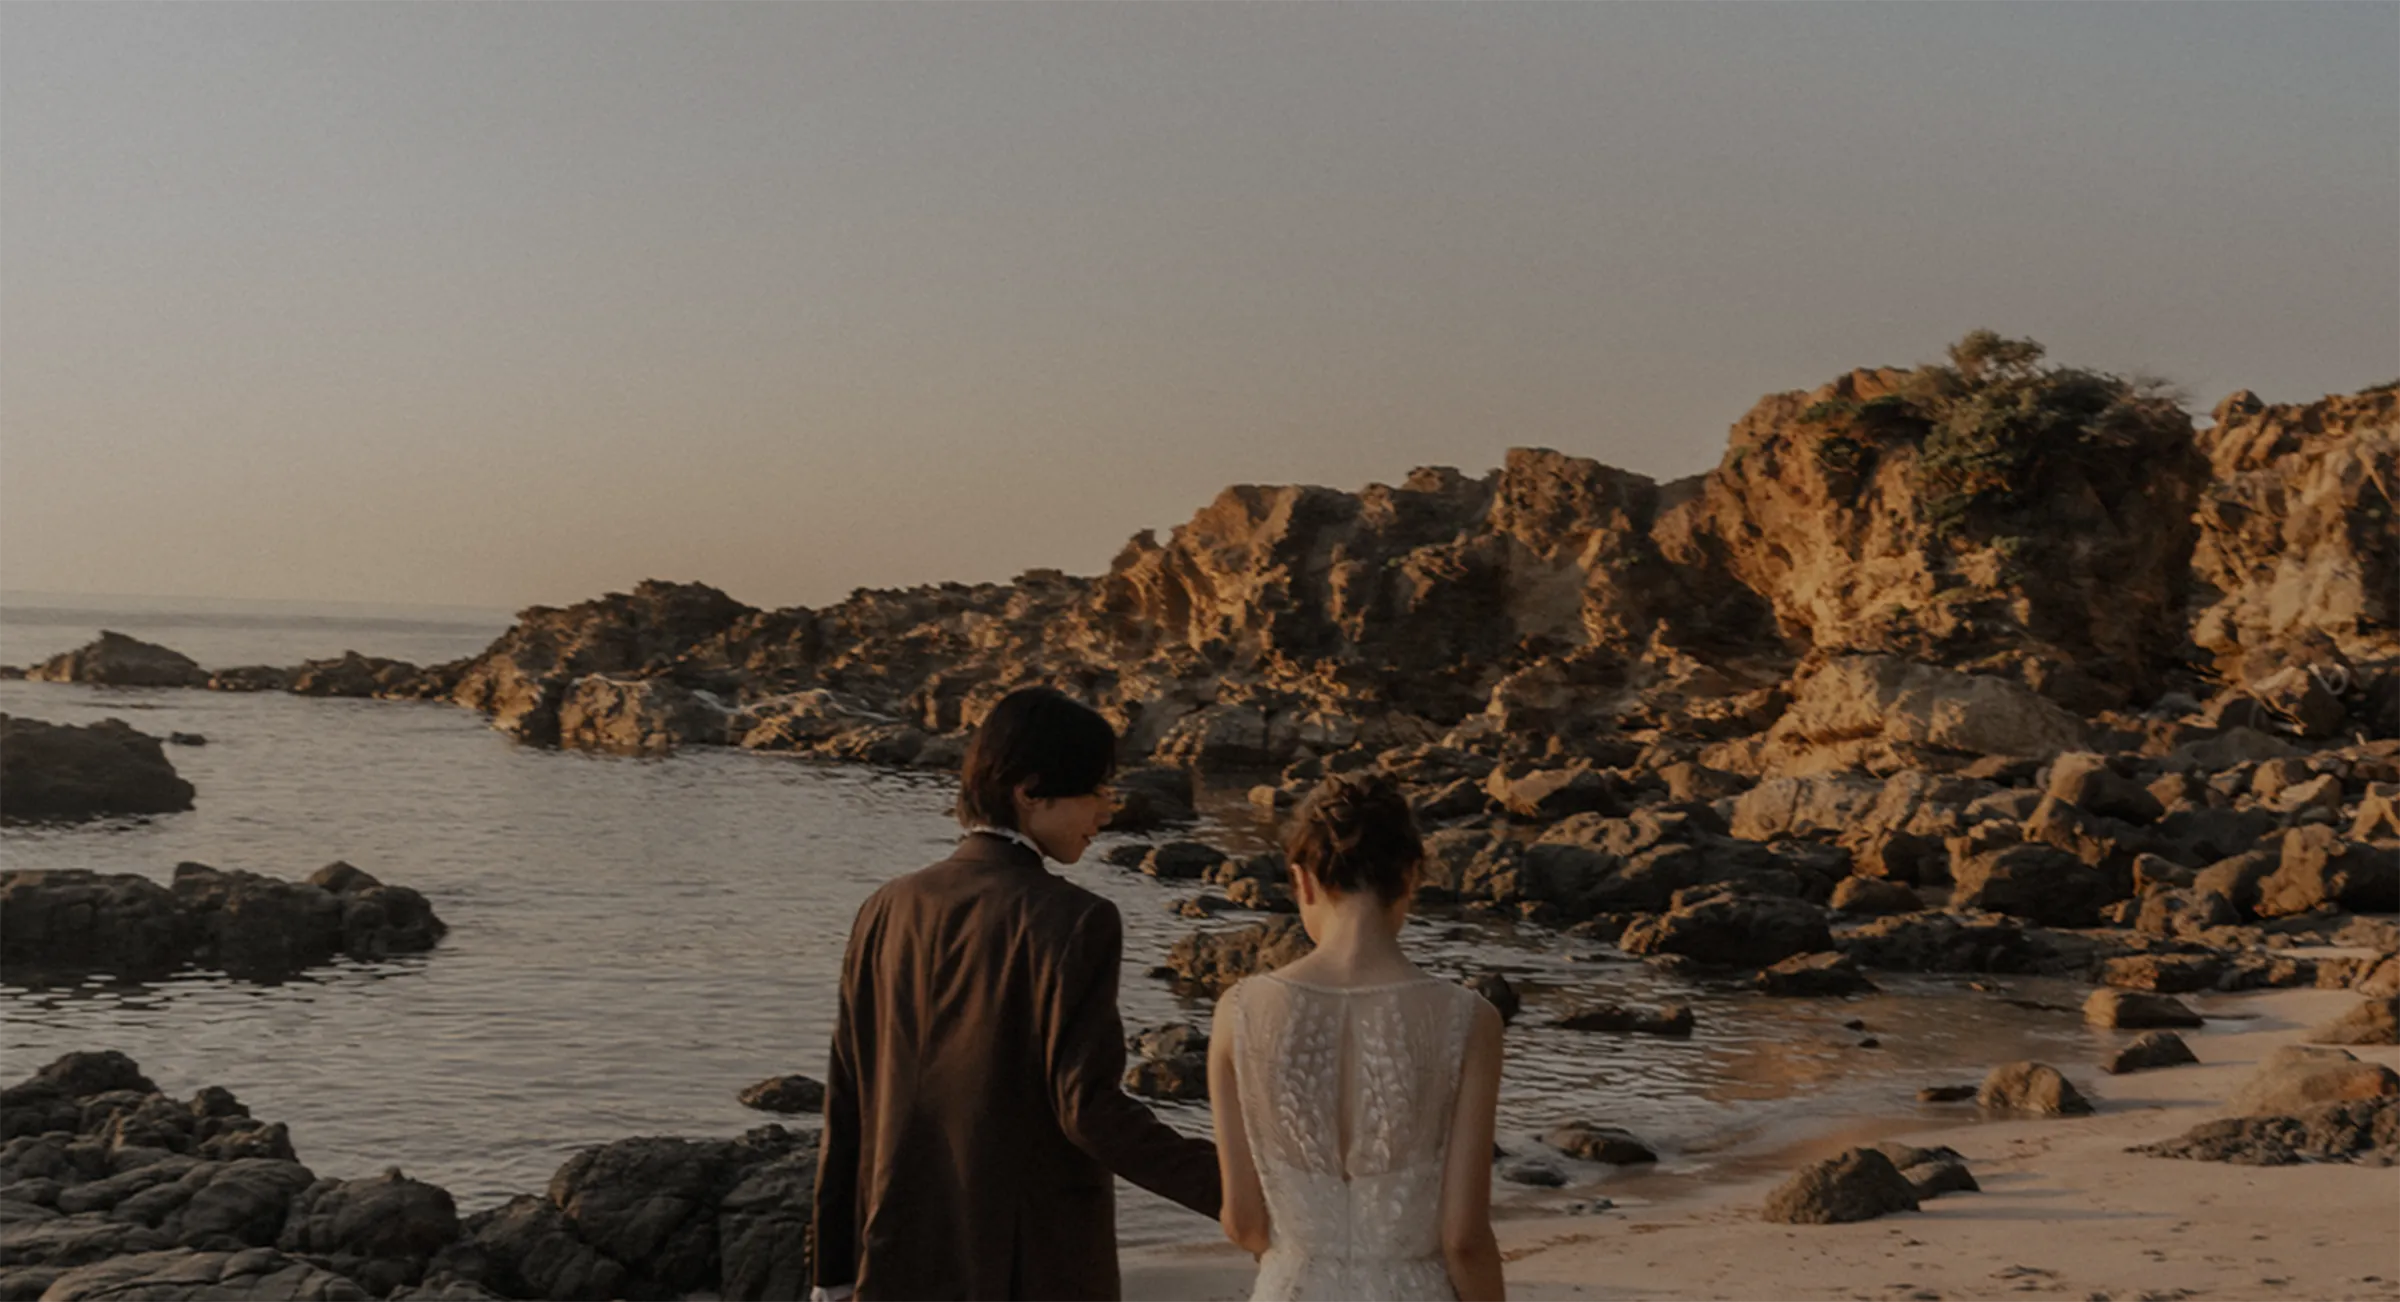
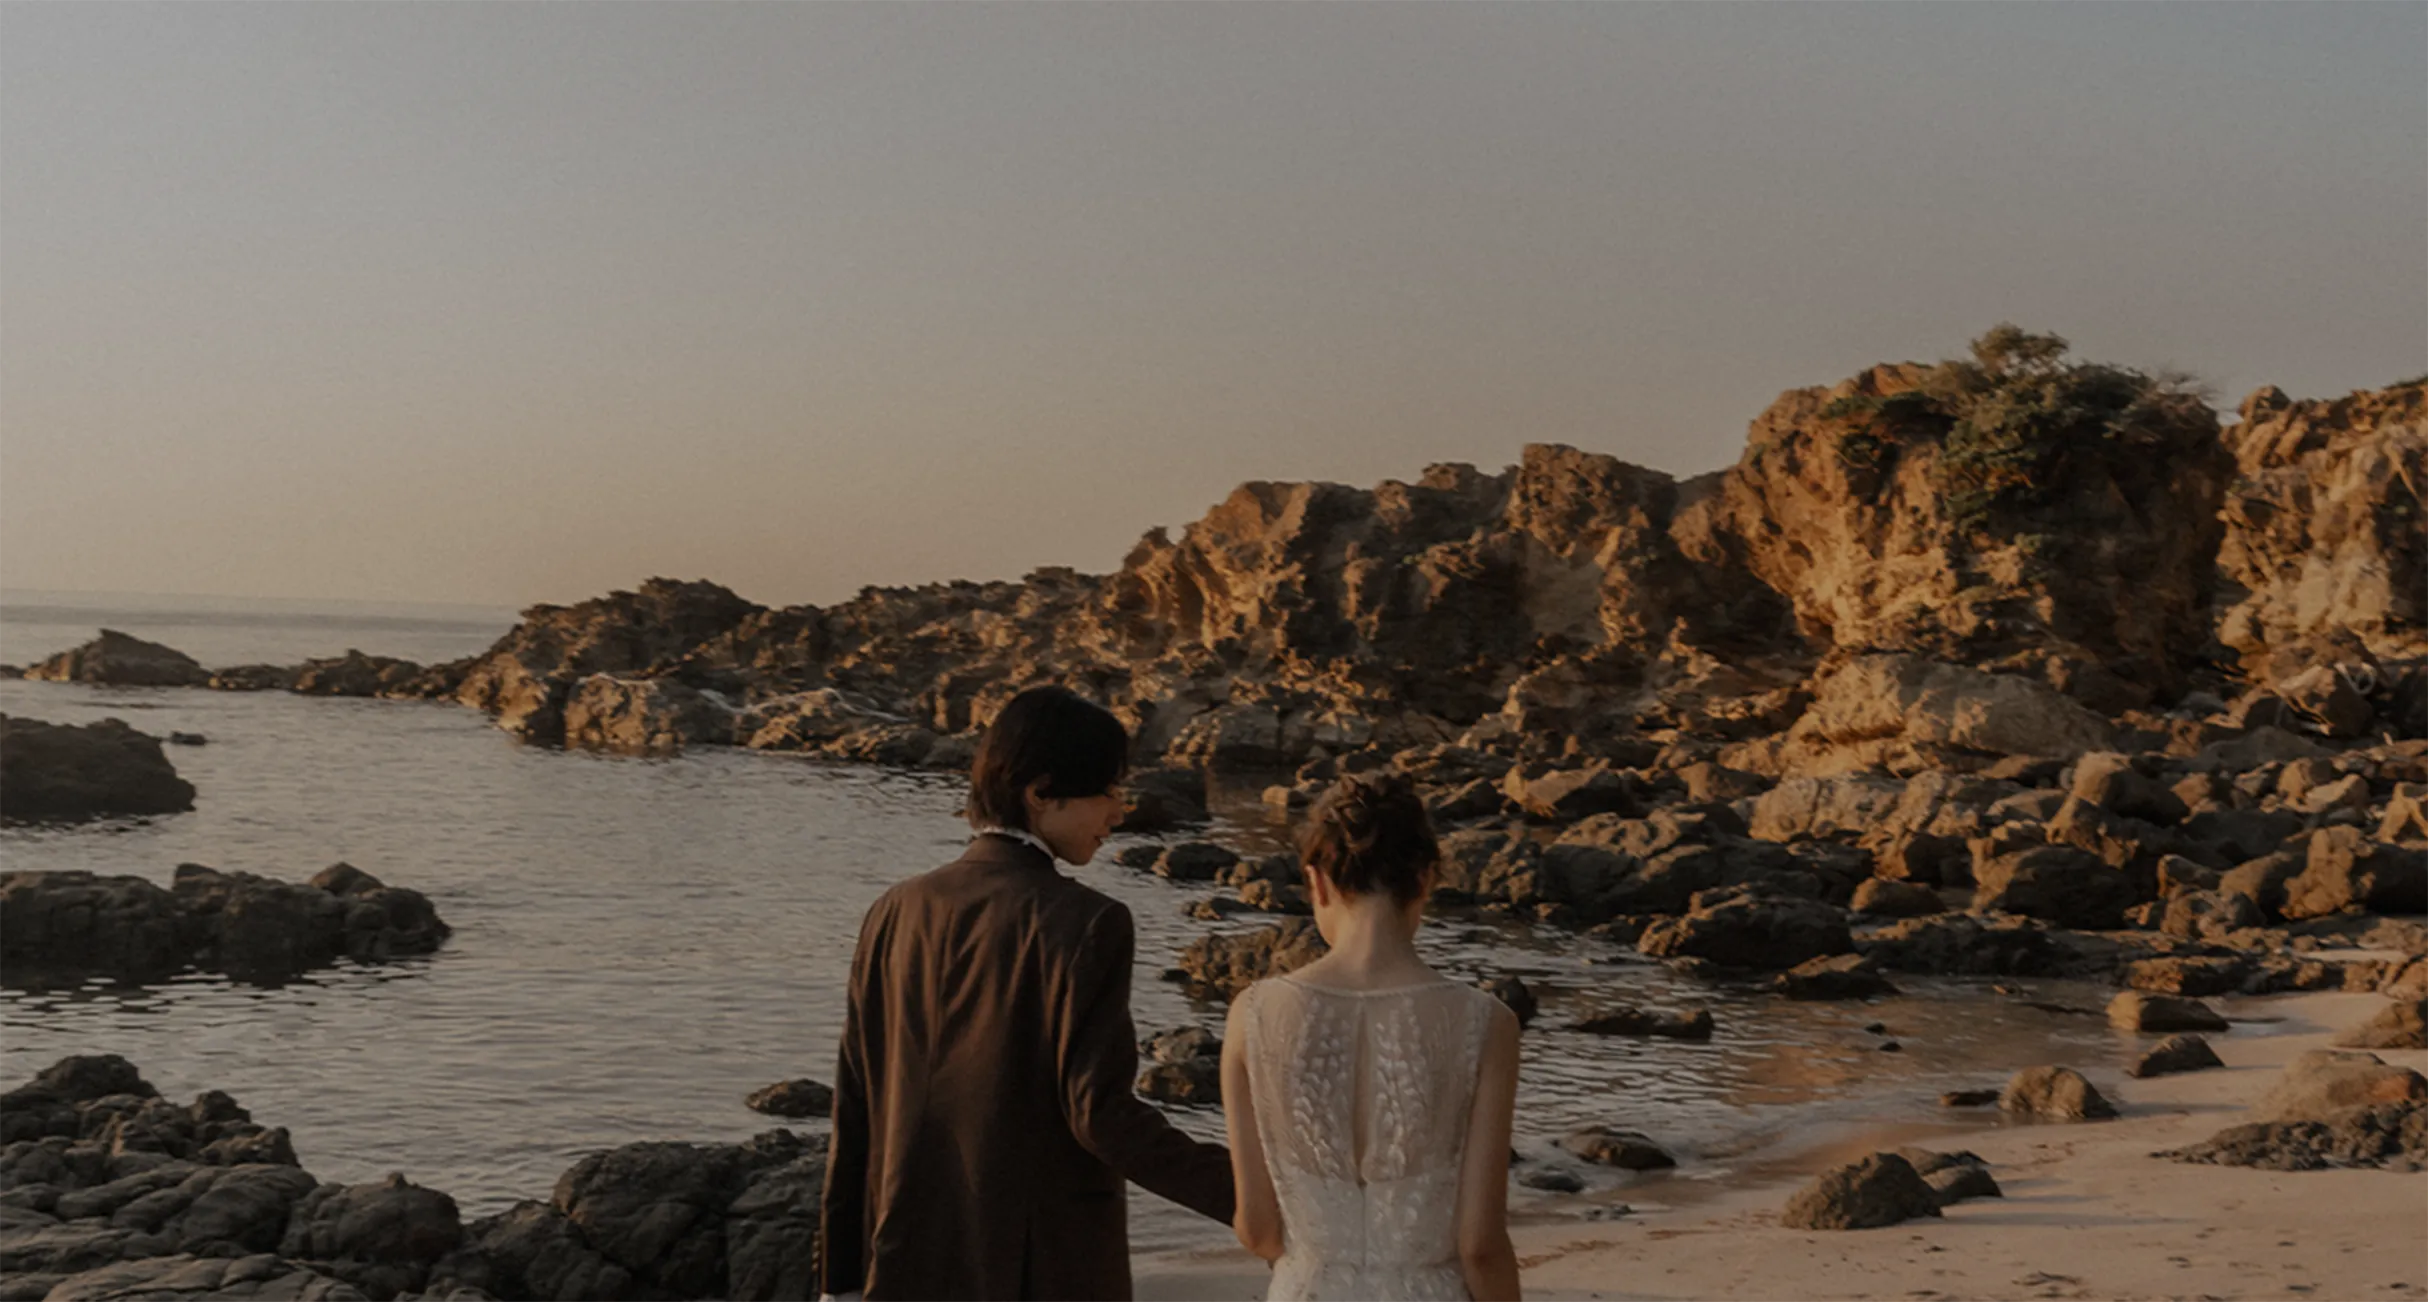
add pc image

diff --git a/index.html b/index.html
@@ -41,7 +41,7 @@
       <div class="kv__inner inner">
         <div class="kv__image">
           <picture>
-            <source srcset="./image/KV-bg.webp" media="(max-width: 767px)" type="image/png">
+            <source srcset="./image/KV-bg.webp" media="(max-width: 767px)">
             <img src="./image/pc/KV-bg-PC.webp" alt="一瞬を永遠に。特別な日を最高の形で。">
           </picture>
         </div>
